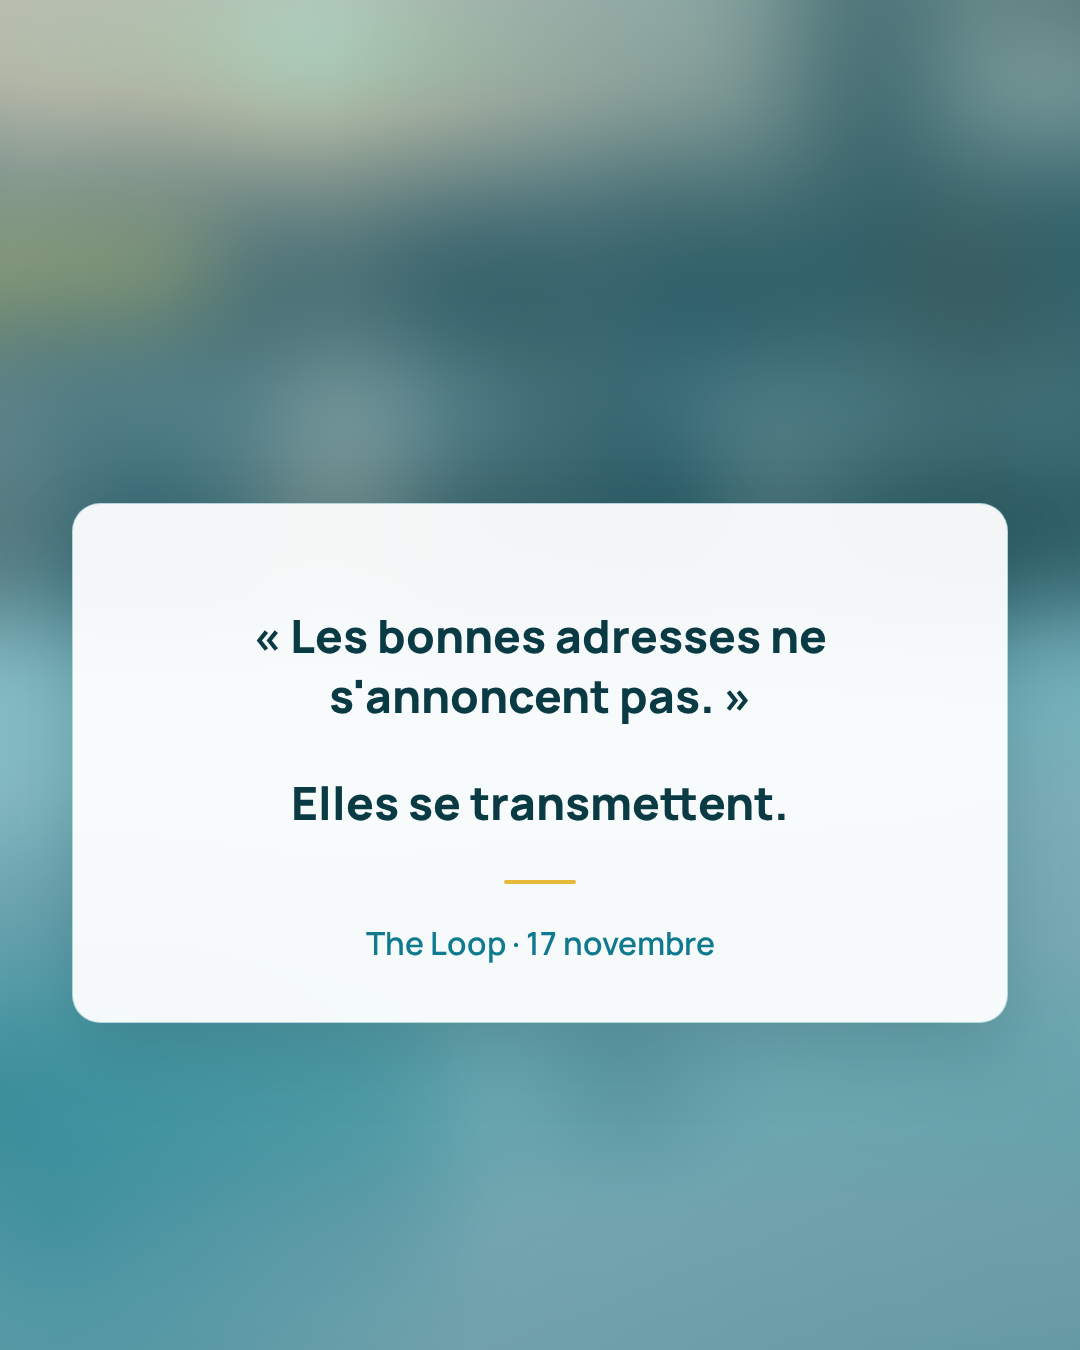
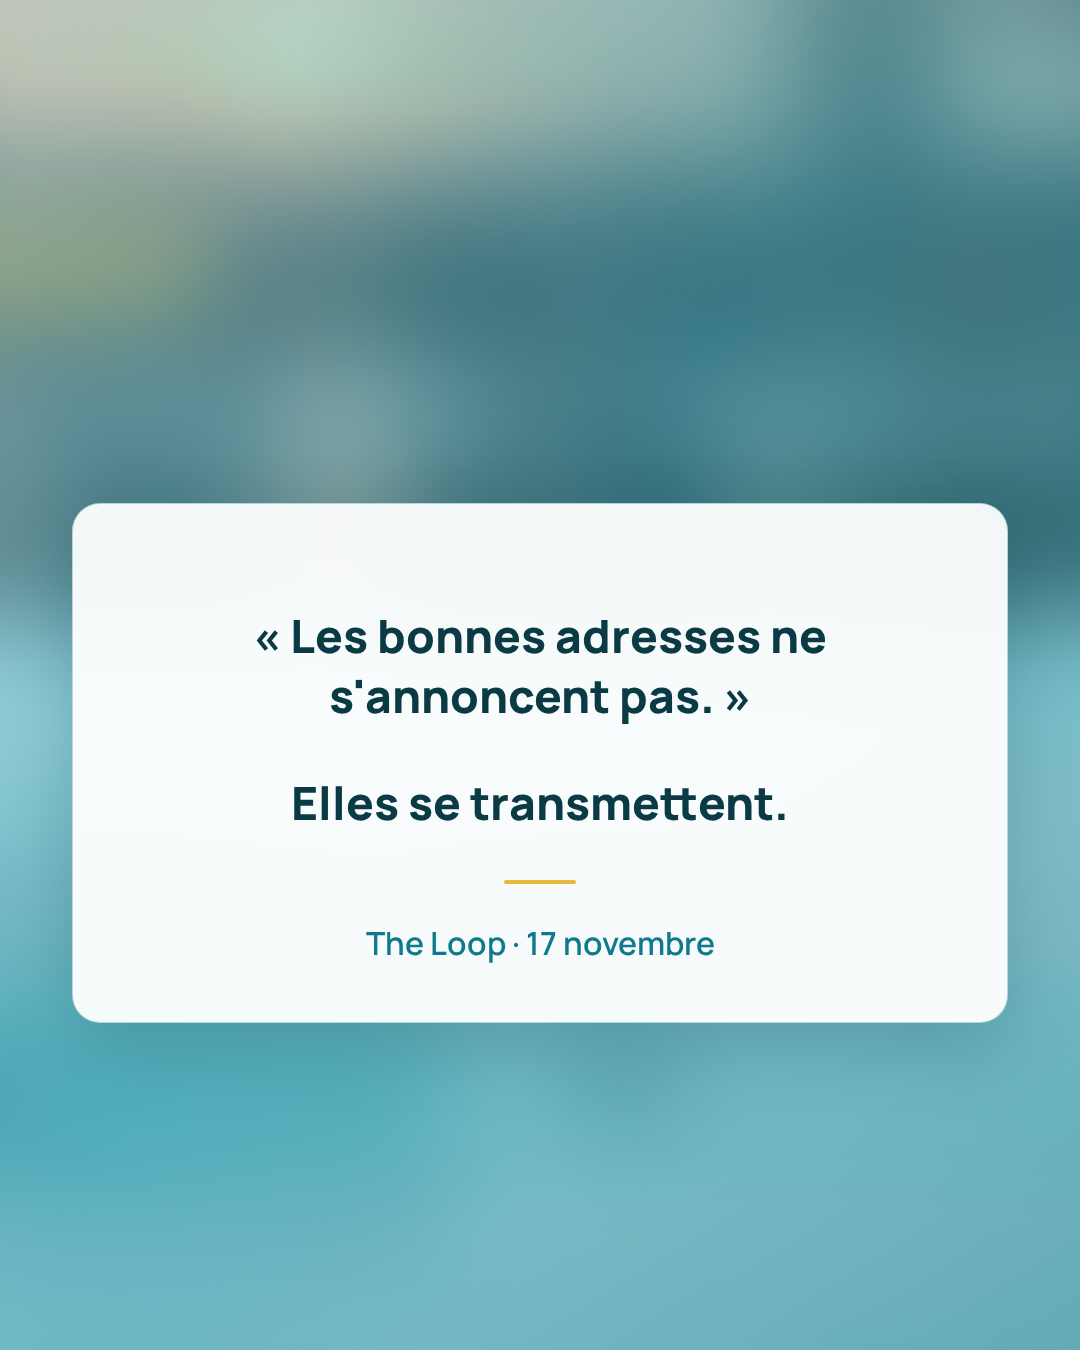
docs(com): fond texte dégradé niveau 2 (complet carte+atmo)

Changed region(s): [[0.0, 0.7156, 0.4278, 1.0], [0.5806, 0.0, 0.9472, 0.28]]

diff --git a/docs/communication/lancement-2026/export-visuels-pack-acte-a-v4-light.html b/docs/communication/lancement-2026/export-visuels-pack-acte-a-v4-light.html
@@ -24,7 +24,8 @@
       margin: 0 auto 16px;
       position: relative;
       overflow: hidden;
-      background: linear-gradient(145deg, var(--bg) 0%, var(--bg2) 35%, #3a9aad 68%, #0f7a8e 100%);
+      /* Niveau 2 · dégradé validé */
+      background: linear-gradient(145deg, #a8dce8 0%, #5eb3c4 40%, #3a9aad 75%, #0f7a8e 100%);
       color: var(--deep);
     }
     .c.reel { height: 1920px; }
@@ -34,14 +35,14 @@
       inset: -20%;
       background: url('assets/capture-accueil-2.jpg') center 20% / cover no-repeat;
       filter: blur(52px) saturate(1.25) brightness(1.05) hue-rotate(-8deg);
-      opacity: 0.52;
+      opacity: 0.44;
     }
     .atmo-teal {
       position: absolute;
       inset: 0;
-      background: radial-gradient(ellipse 100% 80% at 80% 10%, rgba(10,58,68,0.25), transparent 50%),
-        radial-gradient(ellipse 90% 70% at 5% 90%, rgba(15,122,142,0.45), transparent 45%),
-        linear-gradient(180deg, rgba(15,122,142,0.15) 0%, rgba(10,58,68,0.28) 100%);
+      background: radial-gradient(ellipse 95% 75% at 75% 15%, rgba(15,122,142,0.28), transparent 52%),
+        radial-gradient(ellipse 85% 65% at 8% 85%, rgba(21,150,173,0.22), transparent 48%),
+        linear-gradient(180deg, rgba(15,122,142,0.08) 0%, rgba(15,122,142,0.18) 100%);
       pointer-events: none;
       z-index: 1;
     }
@@ -64,9 +65,9 @@
       border-radius: 50%;
       filter: blur(2px);
     }
-    .blob.a { width: 560px; height: 560px; background: rgba(10,58,68,0.22); top: -120px; right: -140px; }
-    .blob.b { width: 400px; height: 400px; background: rgba(15,122,142,0.38); bottom: 140px; left: -100px; }
-    .blob.c { width: 280px; height: 280px; background: rgba(21,150,173,0.35); top: 40%; left: 50%; }
+    .blob.a { width: 520px; height: 520px; background: rgba(15,122,142,0.26); top: -110px; right: -130px; }
+    .blob.b { width: 360px; height: 360px; background: rgba(21,150,173,0.2); bottom: 160px; left: -90px; }
+    .blob.c { width: 240px; height: 240px; background: rgba(15,122,142,0.18); top: 42%; left: 52%; }
     .inner {
       position: relative;
       z-index: 2;
@@ -80,8 +81,8 @@
       backdrop-filter: blur(16px);
       border-radius: 28px;
       padding: 56px 52px;
-      box-shadow: 0 28px 72px rgba(10,58,68,0.22);
-      border: 1px solid rgba(15,122,142,0.28);
+      box-shadow: 0 24px 64px rgba(15,122,142,0.16);
+      border: 1px solid rgba(15,122,142,0.2);
       margin-top: auto;
       margin-bottom: auto;
     }

diff --git a/docs/communication/lancement-2026/CHARTE-FOND-TEXTE.md b/docs/communication/lancement-2026/CHARTE-FOND-TEXTE.md
@@ -7,7 +7,7 @@
 
 ## Fichier source (version validée)
 - HTML : `export-visuels-pack-acte-a-v4-light.html`
-- **Style :** dégradé **bleu-vert renforcé** (pas le très clair initial) + atmo floue + carte blanche + squelettes.
+- **Style :** dégradé **niveau 2** (`#a8dce8 → #5eb3c4 → #3a9aad → #0f7a8e`) + atmo floue + carte blanche + squelettes.
 - PNG : `exports-png-v4-light/` — `01_`, `02_`, `03_`
 - Ignorer `COMPARAISON_NIVEAU_*` (tests).
 - Regénérer : `node scripts/export-slides-png-v4.mjs`
